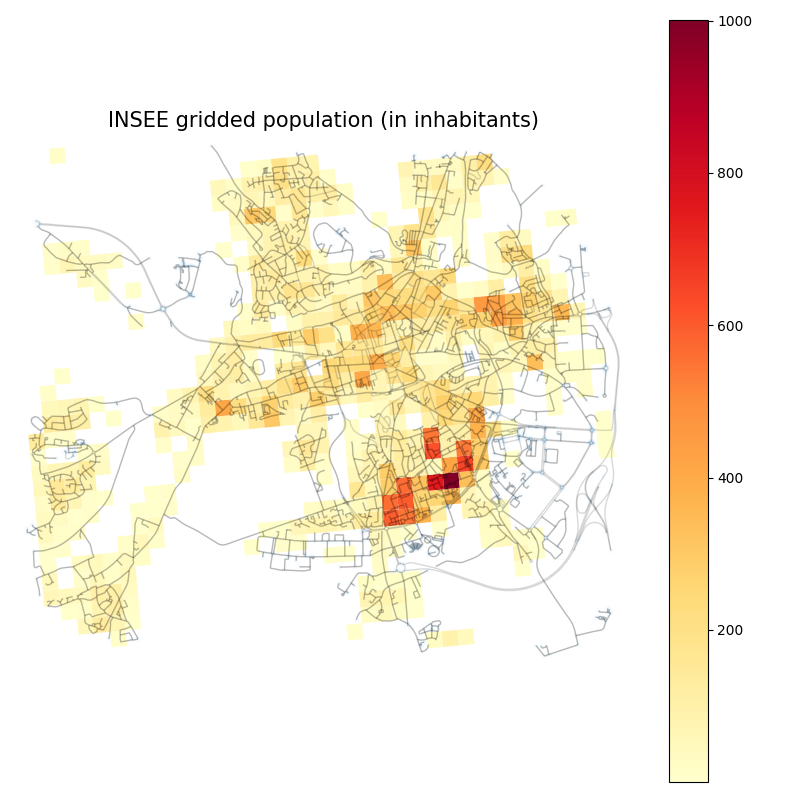
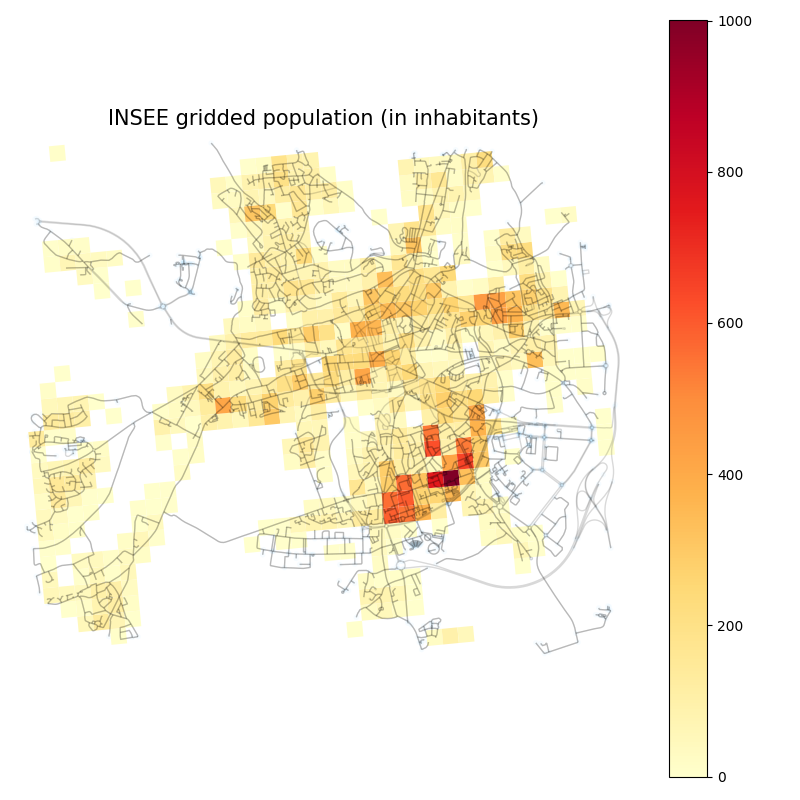
[readme] fix image legend min and max values

diff --git a/urbansprawl/tasks.py b/urbansprawl/tasks.py
@@ -862,7 +862,8 @@ class PlotLandUseMix(luigi.Task):
                                    edge_alpha=0.3,
                                    node_alpha=0.1)
         ax.set_title(f"{self.plotted_feature} kernel density (0: low, 1: high)")
-        grid_land_use.plot(self.plotted_feature, cmap='YlOrRd', ax=ax, legend=True)
+        grid_land_use.plot(self.plotted_feature, cmap='YlOrRd', ax=ax,
+                           legend=True, vmin=0, vmax=1)
         fig.tight_layout()
         fig.savefig(self.output().path)
 
@@ -1424,7 +1425,7 @@ class PlotINSEEData(luigi.Task):
             graph, fig_height=self.figsize, fig_width=self.figsize, close=False,
             show=False, edge_color='black', edge_alpha=0.15, node_alpha=0.05
         )
-        population.plot("pop_count", ax=ax, cmap='YlOrRd', legend=True)
+        population.plot("pop_count", ax=ax, cmap='YlOrRd', legend=True, vmin=0)
         ax.set_title("INSEE gridded population (in inhabitants)", fontsize=15)
         fig.tight_layout()
         fig.savefig(self.output().path)
